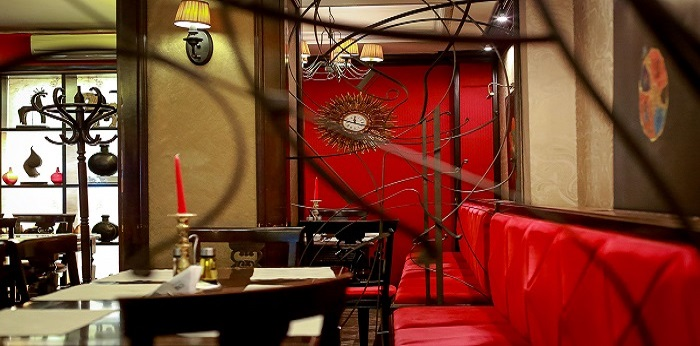
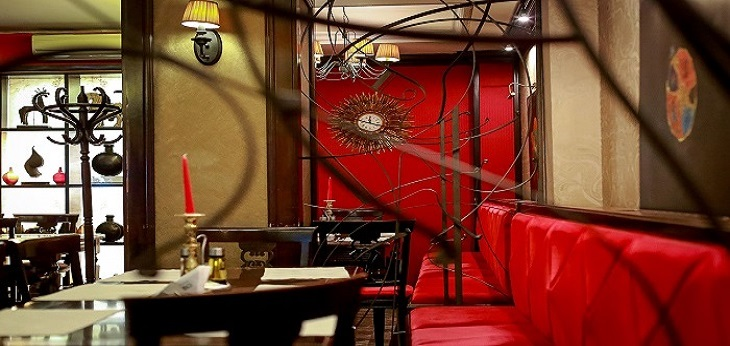
Finished showdetails page

diff --git a/Take-Me-To-Dinner/WebApp/Content/jsImgSlider/themes/1/js-image-slider.css b/Take-Me-To-Dinner/WebApp/Content/jsImgSlider/themes/1/js-image-slider.css
@@ -5,13 +5,13 @@
 }
 #sliderFrame 
 {
-    width:700px;
+    width:100%;
     height: 400px;
     margin:0 auto; /*center-aligned*/
 }
 
 #slider, #slider .sliderInner {
-    width:700px;height:346px;/* Must be the same size as the slider images */
+    width:100%;height:346px;/* Must be the same size as the slider images */
     border-radius:3px;
 }
 

diff --git a/Take-Me-To-Dinner/WebApp/ShowDetails.aspx.cs b/Take-Me-To-Dinner/WebApp/ShowDetails.aspx.cs
@@ -1,9 +1,11 @@
 using Business.Managers;
 using Microsoft.AspNet.Identity;
+using Microsoft.AspNet.Identity.Owin;
 using System;
 using System.Collections.Generic;
 using System.Linq;
 using System.Web;
+using System.Web.Security;
 using System.Web.UI;
 using System.Web.UI.WebControls;
 
@@ -27,6 +29,16 @@ namespace WebApp
             get
             {
                 return User.Identity.GetUserId();
+            }
+        }
+        public bool IsUserAdmin
+        {
+            get
+            {
+                var roles = Context.GetOwinContext().GetUserManager<ApplicationUserManager>().GetRoles(UserId).ToList();
+                foreach (string role in roles)
+                    if (role == "Admin") return true;
+                return false;
             }
         }
         public string Email
@@ -98,6 +110,35 @@ namespace WebApp
         protected void lwReviews_DataBinding(object sender, EventArgs e)
         {
             DataListPlace.DataBind();
+        }
+
+        protected void btnDeleteReview_Click(object sender, EventArgs e)
+        {
+            LinkButton myButton = (LinkButton)sender;
+            int idReview = Convert.ToInt32(myButton.CommandArgument);
+            PlacesManager.DeleteReview(idReview);
+            lwReviews.DataBind();
+        }
+
+        protected void lwReviews_DataBound(object sender, EventArgs e)
+        {
+            ListView lw = (ListView)sender;
+            foreach (var item in lw.Items)
+            {
+                if (item.ItemType == ListViewItemType.DataItem)
+                {
+                    LinkButton btn = (LinkButton)item.FindControl("btnDeleteReview");
+                    HiddenField hf = (HiddenField)item.FindControl("IdUserField");
+                    if (hf.Value == UserId || IsUserAdmin)
+                    {
+                        btn.Visible = true;
+                    }
+                    else
+                    {
+                        btn.Visible = false;
+                    }
+                }
+            }
         }
     }
 }

diff --git a/Take-Me-To-Dinner/Business/Managers/PlacesManager.cs b/Take-Me-To-Dinner/Business/Managers/PlacesManager.cs
@@ -87,6 +87,20 @@ namespace Business.Managers
             UpdateRatingAfterReview(idPlace);
         }
 
+        public static void DeleteReview(int idReview)
+        {
+            using (var db = new EntitiesContext())
+            {
+                var review = db.PlacesReviews.Where(x => x.IdReview == idReview).SingleOrDefault();
+                if (review != null)
+                {
+                    db.PlacesReviews.Remove(review);
+                    db.SaveChanges();
+                }
+                UpdateRatingAfterReview(review.IdPlace);
+            }
+        }
+
         public static void UpdateRatingAfterReview(int idPlace)
         {
             using (var db = new EntitiesContext())
